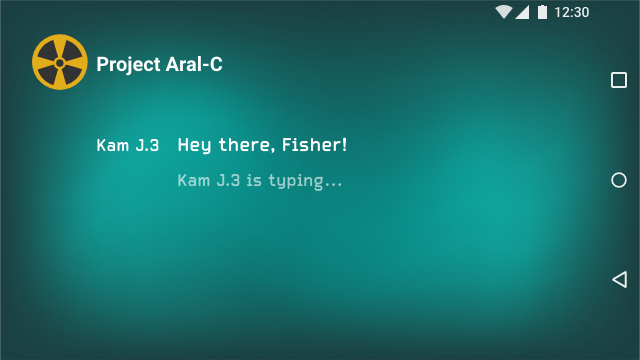
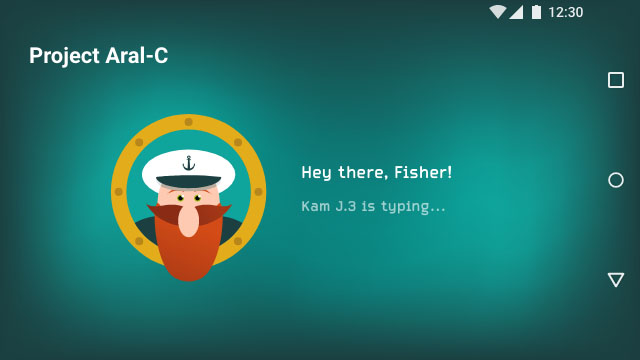
Add more content to UI/UX

diff --git a/ui-project-aral-c.html b/ui-project-aral-c.html
@@ -17,6 +17,28 @@ previous: ui-homegrown
       <h3 class="exa push-1-2 pad-t-2">What is Project Aral-C?</h3>
       <p class="push-1-2 mega">Inspired by the vanishing Aral Sea in Central Asia, which has been dematerializing by the hand of mankind due to the extraction of all of its resources—claimed by scientists as one of the planet’s worst ecological disasters—, the goal of this project is to educate children on the importance of taking care of our waters.</p>
       <p class="push-1-2 mega">Plastic waste is at a peak. Every year, 10 million metric tonnes of plastic end up in the oceans, with more than 165 million tonnes of plastic floating in our oceans today. It is frightening to read that by 2050, more plastic will float in the ocean than sea creatures. Plastic affects climate change immensely; as the making of plastic begins with fossil fuels—oils and gases— and releases toxic emissions when extracted from the earth. At the end of the cycle, petroleum products (used in plastic) are being burned as a temporary fix to rid our land of the bulk waste. The carbon dioxide this creates is causing a greenhouse effect to our planet, which in return is fostering global warming.</p>
+
+      <div class="grid max-length pad-top push">
+        <div class="unit xs-1 s-1-2">
+          <img class="img-flex" src="{{site.baseurl}}/images/project-aral-c/sketch-aral-c-app.jpg" alt="Pencil sketch of the app">
+        </div>
+        <div class="unit xs-1 s-1-2">
+          <img class="img-flex" src="{{site.baseurl}}/images/project-aral-c/sketch-captain.jpg" alt="Illustration sketches">
+        </div>
+      </div>
+
+      <h3 class="exa push pad-top">Meet Captain Kam J.3</h3>
+      <div class="grid max-length">
+        <div class="unit xs-1-3">
+          <img class="img-flex gutter-1-2" src="{{site.baseurl}}/images/project-aral-c/captain-neutral.svg" alt="">
+        </div>
+        <div class="unit xs-1-3">
+          <img class="img-flex gutter-1-2" src="{{site.baseurl}}/images/project-aral-c/captain-surprised.svg" alt="">
+        </div>
+        <div class="unit xs-1-3">
+          <img class="img-flex gutter-1-2" src="{{site.baseurl}}/images/project-aral-c/captain-mad.svg" alt="">
+        </div>
+      </div>
       <dl class="pad-t-2">
         <dt class="karla giga bold">Target Audience:</dt>
         <dd class="push-1-2">8–14 year olds</dd>
@@ -44,7 +66,7 @@ previous: ui-homegrown
       <h3 class="exa push-1-2">How do we put an end to this? </h3>
       <p class="push-1-2 mega">The approach of this project is to educate children from a young age. How can they sensibly make an impact in decreasing plastic waste, and achieve this in their everyday lives? Children have influence in their households, and the objective of this application is to initiate conversations among family members and friends.</p>
       <p class="push-1-2 mega">Children will find this game a thrill, as it is educational, but challenging all the same. The more waste they can discover, the more points they can score, and the incentive is to save all sea creatures. Kam J.3, their captain, often makes an appearance to guide them and encourage their discoveries.</p>
-      <p class="push-2 mega">This application can make a difference in the future generation, as it is engaging, informational, and appropriate to fit their daily lives. Parents will find it pertinent, and will be more likely to keep this app on their phones or their children’s devices than any regular game. </p>
+      <p class="push mega">This application can make a difference in the future generation, as it is engaging, informational, and appropriate to fit their daily lives. Parents will find it pertinent, and will be more likely to keep this app on their phones or their children’s devices than any regular game. </p>
       <div class="grid pad-t-2 pad-b-2">
         <div class="unit xs-1 s-1-2 push-1-2 gutter-1-4">
           <img class="img-flex" src="{{site.baseurl}}/images/project-aral-c/project-aral-c-screen5.jpg" alt="">
@@ -59,6 +81,13 @@ previous: ui-homegrown
           <img class="img-flex" src="{{site.baseurl}}/images/project-aral-c/project-aral-c-screen8.jpg" alt="">
         </div>
       </div>
+
+      <div class="grid">
+        <div class="unit max-length push">
+          <img class="img-flex" src="{{site.baseurl}}/images/project-aral-c/project-aral-c-child.jpg" alt="Child playing with the app">
+        </div>
+      </div>
+
       <h5 class="push-0">Sources</h5>
       <div class="sources-links milli">
         <a href="https://www.greenpeace.org/usa/oceans/issues/pollution-climate-change/">https://www.greenpeace.org</a>
